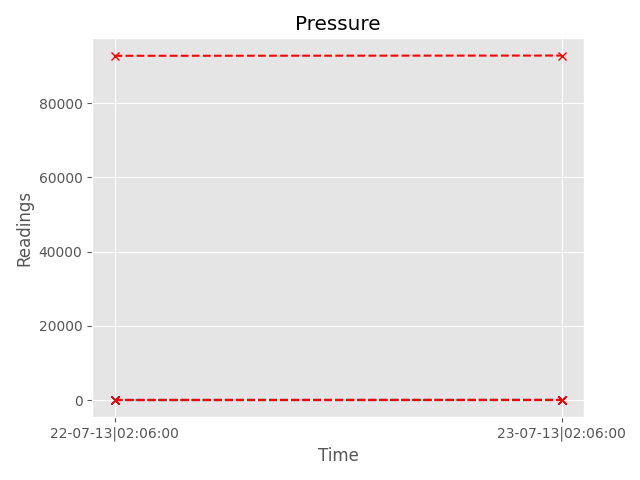
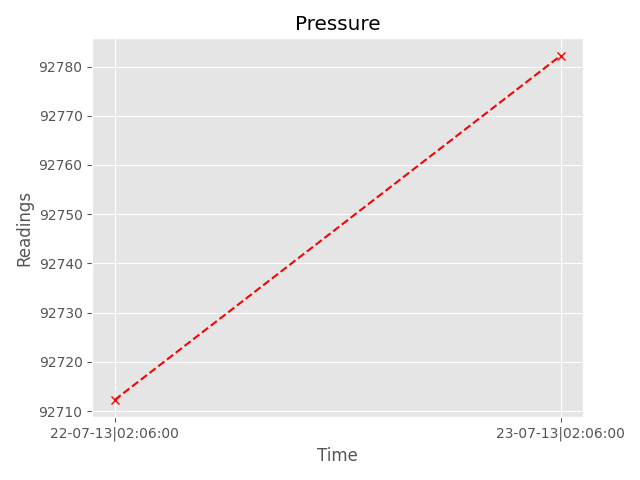
Improved Plots

diff --git a/appdir/templates/anemo.html b/appdir/templates/anemo.html
@@ -15,7 +15,7 @@
     </div>
 
     <div class="plotz">
-        <img src="{{url_for('static', filename='images/anemo.png')}}" class="imgplotz"/>
+        <img src="{{url_for('static', filename='images/am.png')}}" class="imgplotz"/>
     </div>
 
 {% endblock main %}

diff --git a/appdir/static/css/style.css b/appdir/static/css/style.css
@@ -10,6 +10,13 @@ h1, h2, h3, h4, h5, h6 {
   color: #444444;
 }
 
+.plotz {
+    display: flex;
+    justify-content: center;
+    align-items: center;
+    margin: 30px 30px;
+}
+
 .tab {
   overflow: hidden;
   border: 1px solid #ccc;

diff --git a/appdir/routes.py b/appdir/routes.py
@@ -3,27 +3,17 @@ from appdir import app, db
 import appdir.models
 from datetime import datetime
 import pandas as pd
+import numpy as np
 import matplotlib
 matplotlib.use('Agg')
 import matplotlib.pyplot as plt
 import math
-import sqlalchemy
 import mpld3
 
 
 def remove(string):
     return string.replace(" ", "|")
 
-
-# @app.route('/', methods=['GET', 'POST'])
-# def lora():
-#     if request.method == 'POST':
-#         request_data = request.get_json()
-#         if request_data:
-#             return render_template('lora.html', request_data=request_data)
-#         else:
-#             return render_template('empty.html')
-#     return "NULL"
 
 @app.route('/')
 @app.route("/reroute")
@@ -45,13 +35,14 @@ def data_plot():
     df = pd.read_sql_table('sensor_data', conn)
     pm1 = df['pm1']
     ttime = df['ttime']
+    x_indexes = np.arange(len(ttime))
+    plt.figure(1)
     plt.style.use('ggplot')
-    plt.plot(ttime, pm1, 'x--r', label='Pluviometer 1')
+    plt.plot(x_indexes, pm1, '.-r', label='pm1')
     plt.xlabel('Time')
-    plt.ylabel('Readings')
+    plt.ylabel('Rain in the current hour (mm)')
     plt.title('Pluviometer 1')
     plt.grid(True)
-    plt.tight_layout()
     plt.savefig('appdir/static/images/pm1.png')
 
     return render_template('data_plot.html')
@@ -63,13 +54,14 @@ def pm2():
     df = pd.read_sql_table('sensor_data', conn)
     ttime = df['ttime']
     pm2 = df['pm2']
+    plt.figure(2)
     plt.style.use('ggplot')
-    plt.plot(ttime, pm2, 'x--g', label='Pluviometer 2')
+    plt.plot(ttime, pm2, 'x--g', label='pm2')
     plt.xlabel('Time')
-    plt.ylabel('Readings')
+    plt.ylabel('Rain in the previous hour (mm)')
     plt.title('Pluviometer 2')
     plt.grid(True)
-    plt.tight_layout()
+    
     plt.savefig('appdir/static/images/pm2.png')
 
     return render_template('pm2.html')
@@ -81,13 +73,14 @@ def pm3():
     df = pd.read_sql_table('sensor_data', conn)
     ttime = df['ttime']
     pm3 = df['pm3']
+    plt.figure(3)
     plt.style.use('ggplot')
-    plt.plot(ttime, pm3, 'x--b', label='Pluviometer 3')
+    plt.plot(ttime, pm3, 'x--b', label='pm3')
     plt.xlabel('Time')
-    plt.ylabel('Readings')
+    plt.ylabel('Rain in the last 24 hours (mm)')
     plt.title('Pluviometer 3')
     plt.grid(True)
-    plt.tight_layout()
+    
     plt.savefig('appdir/static/images/pm3.png')
 
     return render_template('pm3.html')
@@ -99,13 +92,14 @@ def anemo():
     df = pd.read_sql_table('sensor_data', conn)
     ttime = df['ttime']
     am = df['am']
+    plt.figure(4)
     plt.style.use('ggplot')
     plt.plot(ttime, am, 'x--r', label='Anemometer')
     plt.xlabel('Time')
-    plt.ylabel('Readings')
+    plt.ylabel('Wind Speed (km/h)')
     plt.title('Anemometer')
     plt.grid(True)
-    plt.tight_layout()
+    
     plt.savefig('appdir/static/images/am.png')
 
     return render_template('anemo.html')
@@ -117,13 +111,14 @@ def sm():
     df = pd.read_sql_table('sensor_data', conn)
     ttime = df['ttime']
     sm = df['sm']
+    plt.figure(5)
     plt.style.use('ggplot')
     plt.plot(ttime, sm, 'x--r', label='Soil Moisture')
-    plt.xlabel('Time')
+    plt.xlabel('Soil moisture (centibar)')
     plt.ylabel('Readings')
-    plt.title('Soil Moisture')
+    plt.title('Watermark')
     plt.grid(True)
-    plt.tight_layout()
+    
     plt.savefig('appdir/static/images/sm.png')
 
     return render_template('sm.html')
@@ -135,13 +130,14 @@ def st():
     df = pd.read_sql_table('sensor_data', conn)
     ttime = df['ttime']
     st = df['st']
+    plt.figure(6)
     plt.style.use('ggplot')
     plt.plot(ttime, st, 'x--r', label='Soil Temperature')
     plt.xlabel('Time')
-    plt.ylabel('Readings')
-    plt.title('Soil Temperature')
+    plt.ylabel('Soil Temperature (°C)')
+    plt.title('PT-1000')
     plt.grid(True)
-    plt.tight_layout()
+    
     plt.savefig('appdir/static/images/st.png')
 
     return render_template('st.html')
@@ -153,13 +149,14 @@ def lum():
     df = pd.read_sql_table('sensor_data', conn)
     ttime = df['ttime']
     lum = df['lum']
+    plt.figure(7)
     plt.style.use('ggplot')
     plt.plot(ttime, lum, 'x--r', label='Luminosity')
     plt.xlabel('Time')
-    plt.ylabel('Readings')
+    plt.ylabel('Illuminance (lux)')
     plt.title('Luminosity')
     plt.grid(True)
-    plt.tight_layout()
+    
     plt.savefig('appdir/static/images/lum.png')
 
     return render_template('lum.html')
@@ -171,13 +168,14 @@ def temp():
     df = pd.read_sql_table('sensor_data', conn)
     ttime = df['ttime']
     temp = df['temp']
+    plt.figure(8)
     plt.style.use('ggplot')
     plt.plot(ttime, temp, 'x--r', label='Temperature')
     plt.xlabel('Time')
-    plt.ylabel('Readings')
+    plt.ylabel('°C')
     plt.title('Temperature')
     plt.grid(True)
-    plt.tight_layout()
+    
     plt.savefig('appdir/static/images/temp.png')
 
     return render_template('temp.html')
@@ -189,13 +187,14 @@ def humd():
     df = pd.read_sql_table('sensor_data', conn)
     ttime = df['ttime']
     humd = df['humd']
+    plt.figure(9)
     plt.style.use('ggplot')
     plt.plot(ttime, humd, 'x--r', label='Humidity')
     plt.xlabel('Time')
-    plt.ylabel('Readings')
+    plt.ylabel('%')
     plt.title('humd')
     plt.grid(True)
-    plt.tight_layout()
+    
     plt.savefig('appdir/static/images/humd.png')
 
     return render_template('humd.html')
@@ -207,13 +206,14 @@ def pres():
     df = pd.read_sql_table('sensor_data', conn)
     ttime = df['ttime']
     pres = df['pres']
+    plt.figure(10)
     plt.style.use('ggplot')
     plt.plot(ttime, pres, 'x--r', label='Pressure')
     plt.xlabel('Time')
-    plt.ylabel('Readings')
+    plt.ylabel('Pascal')
     plt.title('Pressure')
     plt.grid(True)
-    plt.tight_layout()
+    
     plt.savefig('appdir/static/images/pres.png')
 
     return render_template('pres.html')
